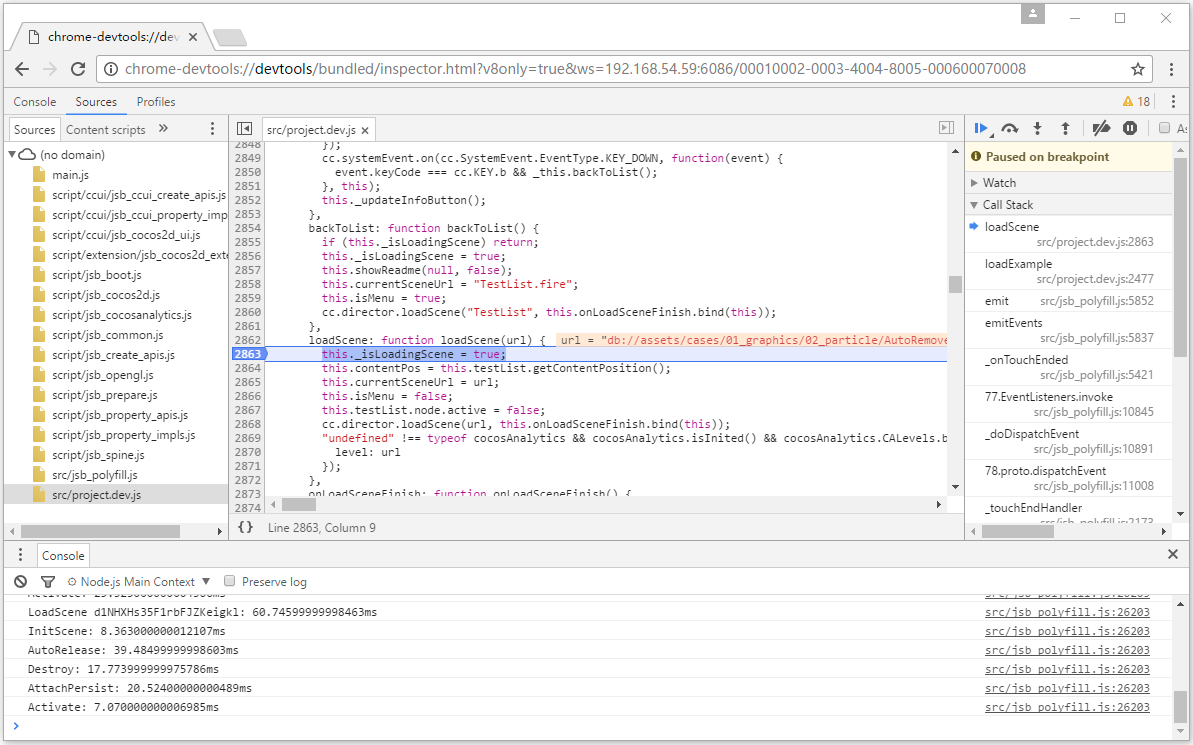
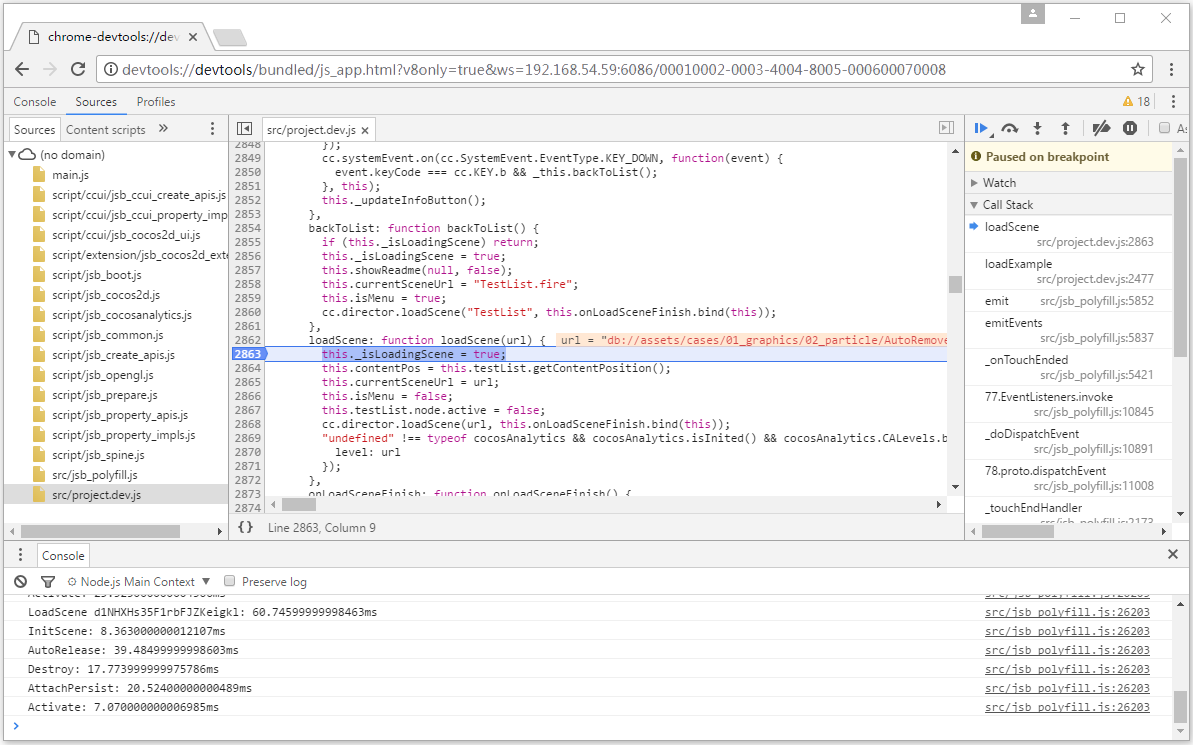
v8 performance profiling doc change

Changed region(s): [[0.093, 0.0617, 0.8684, 0.1235]]

diff --git a/en/SUMMARY.md b/en/SUMMARY.md
@@ -31,8 +31,9 @@
 
 - [材质](material-system/overview.md)
   - [YAML 101](material-system/yaml-101.md)
-  - [Effect](material-system/effect-syntax.md)
-  - [Pass](material-system/pass-parameter-list.md)
+  - [Effect Syntax](material-system/effect-syntax.md)
+  - [Pass Params](material-system/pass-parameter-list.md)
+  - [Builtin Shader Uniforms](material-system/builtin-shader-uniforms.md)
 
 - [声音](audio-system/overview.md)
 
@@ -61,9 +62,16 @@
   - [物理系统](physics/physics-system.md)
   - [物理组件](physics/physics-component.md)
   - [物理使用](physics/physics-use.md)
+  - [使用碰撞体](physics/physics-collider.md)
+  - [物理材质](physics/physics-material.md)
+  - [使用刚体](physics/physics-rigidbody.md)
+  - [物理事件](physics/physics-event.md)
+  - [分组和掩码](physics/physics-group-mask.md)
+  - [射线检测](physics/physics-raycast.md)
 
 - [UI](ui-system/components/engine/index.md)
   - [渲染排序规则](ui-system/components/engine/priority.md)
+  - [UI合批说明](ui-system/components/engine/ui-batch.md)
   - [多分辨率适配方案](ui-system/components/engine/multi-resolution.md)
   - [对齐策略](ui-system/components/engine/widget-align.md)
   - [文字排版](ui-system/components/engine/label-layout.md)
@@ -110,12 +118,17 @@
       - [SliderComponent 组件参考](ui-system/components/editor/slider.md)
       - [PageViewComponent 组件参考](ui-system/components/editor/pageview.md)
       - [PageViewIndicatorComponent 组件参考](ui-system/components/editor/pageviewindicator.md)
+      - [UIModelComponent 组件参考](ui-system/components/editor/ui-model.md)
+      - [UIStaticComponent 组件参考](ui-system/components/editor/ui-static.md)
+      - [UICoordinateTracker 组件参考](ui-system/components/editor/ui-coordinate-tracker.md)
+      - [UIOpacity 组件参考](ui-system/components/editor/ui-opacity.md)
 
 - [脚本指南及事件机制](scripting/index.md)
   - [脚本创建](scripting/setup.md)
-  - [语言支持](scripting/language-support.md)
   - [脚本基础](scripting/basic.md)
+  - [语言支持](scripting/language-support.md)
   - [ccclass](scripting/ccclass.md)
+  - [属性参数参考](scripting/reference/attributes.md)
   - [访问节点和其他组件](scripting/access-node-component.md)
   - [常用节点和组件接口](scripting/basic-node-api.md)
   - [生命周期回调](scripting/life-cycle-callbacks.md)
@@ -125,12 +138,10 @@
   - [使用计时器](scripting/scheduler.md)
   - [脚本执行顺序](scripting/execution-order.md)
   - [组件](scripting/component.md)
-  - [属性参数参考](scripting/reference/attributes.md)
-  - [插件脚本](scripting/plugin-scripts.md)
-  - [CCClass 进阶参考](scripting/ccclass.md)
-  - [单元测试](scripting/unit-test.md)
-  - [废弃API](scripting/deprecated.md)
   - [事件机制](engine/event/index.md)
+  - [插件脚本](scripting/plugin-scripts.md)
+  - [添加 Log](scripting/log.md)
+  - [废弃 API](scripting/deprecated.md)
 
 - [资源手册](asset/index.md)
   - [资源工作流](asset/asset-workflow.md)
@@ -138,11 +149,13 @@
   - [分包加载](asset/subpackage.md)
   - [场景资源](asset/scene.md)
   - [图像资源](asset/image.md)
-    - [纹理贴图资源](asset-workflow/texture.md)
+    - [纹理贴图资源](asset/texture.md)
     - [精灵帧资源](asset/sprite-frame.md)
     - [立方体贴图资源](concepts/scene/skybox.md#cubemap)
     - [图像资源的自动裁剪](ui-system/components/engine/trim.md)
+    - [压缩纹理](asset/compress-texture.md)
     - [图集资源](asset/atlas.md)
+    - [自动图集资源](asset/auto-atlas.md)
     - [渲染纹理](asset/render-texture.md)
   - [预制资源](asset/prefab.md)
   - [脚本资源](asset/script.md)
@@ -163,6 +176,7 @@
   - [动画编辑器](editor/animation/index.md)
   - [偏好设置](editor/preferences/index.md)
   - [项目设置](editor/project/index.md)
+  - [引擎定制工作流程](editor/engine-customization/engine-customization.md)
 
 - [项目预览调试](editor/preview/index.md)
   - [浏览器预览](editor/preview/browser.md)
@@ -189,6 +203,16 @@
   - [发布到 web 平台](editor/publish/publish-web.md)
   - [发布到微信小游戏](editor/publish/publish-wechatgame.md)
     - [接入微信小游戏的开放数据域](editor/publish/publish-wechatgame-subcontext.md)
+    - [启用微信小游戏引擎插件](editor/publish/wechatgame-plugin.md)
+  - [发布到原生平台](editor/publish/publish-native.md)
+    - [安装配置原生环境](editor/publish/setup-native-development.md)
+    - [原生平台 JavaScript 调试](editor/publish/debug-jsb.md)
+  - [发布到 OPPO 小游戏](editor/publish/publish-oppo-mini-game.md)
+  - [发布到华为小游戏](editor/publish/publish-huawei-mini-game.md)
+  - [发布到 vivo 小游戏](editor/publish/publish-vivo-mini-game.md)
+  - [发布到小米快游戏](editor/publish/publish-xiaomi-quick-game.md)
+  - [发布到 Cocos Play](editor/publish/publish-cocos-play.md)
+  - [发布到支付宝小游戏](editor/publish/publish-alipay-mini-game.md)
   - [命令行发布项目](editor/publish/publish-in-command-line.md)
   - [定制项目的构建模版](editor/publish/custom-project-build-template.md)
   - [构建流程简介与常见错误处理](editor/publish/build-guide.md)

diff --git a/zh/editor/publish/debug-jsb.md b/zh/editor/publish/debug-jsb.md
@@ -8,10 +8,19 @@
 
 - 确保 Android/iOS 设备与 Windows 或者 Mac 在同一个局域网中。注意在调试过程中请勿使用 VPN ，否则可能导致无法正常调试。
 - 在 Creator 3D 的 **构建发布** 面板选择 Android/iOS 平台、Debug 模式，构建编译运行工程（iOS 平台建议通过 Xcode 连接真机进行编译运行）。
-- 用 Chrome 浏览器打开地址：`chrome-devtools://devtools/bundled/inspector.html?v8only=true&ws={IP}:6086/00010002-0003-4004-8005-000600070008` 即可进行调试。其中 `{IP}` 为 Android/iOS 设备的本地 IP。
+- 用 Chrome 浏览器打开地址：`chrome-devtools://devtools/bundled/js_app.html?v8only=true&ws={IP}:6086/00010002-0003-4004-8005-000600070008` 即可进行调试。其中 `{IP}` 为 Android/iOS 设备的本地 IP。
 
   ![](debug-jsb/v8-android-debug.png)
 
+## Windows 平台及 Mac 平台调试
+
+在 Windows 平台及 Mac 平台下调试游戏，步骤与真机调试类似，将工程用 IDE 编译运行之后，此时便可进行调试。步骤如下：
+
+- 用 IDE 将打包好的工程编译并运行（Windows 平台请使用 Visual Studio ， Mac 平台请使用 Xcode）
+- 在游戏运行时打开 Chrome 浏览器，输入地址：`chrome-devtools://devtools/bundled/js_app.html?v8only=true&ws=127.0.0.1:6086/00010002-0003-4004-8005-000600070008` 即可进行调试。
+
+   ![](debug-jsb/v8-win32-debug.png)
+
 ## 其它平台调试
 
-如果需要在 Release 模式下调试，或者需要发布到 Windows 或者 Mac 平台上调试，或者需要调试定制后的原生引擎，可参考更详细的 [JSB 2.0 使用指南：远程调试与 Profile](https://docs.cocos.com/creator/manual/zh/advanced-topics/JSB2.0-learning.html)。
+如果需要在 Release 模式下调试，或者需要调试定制后的原生引擎，可参考更详细的 [JSB 2.0 使用指南：远程调试与 Profile](https://docs.cocos.com/creator/manual/zh/advanced-topics/JSB2.0-learning.html)。
